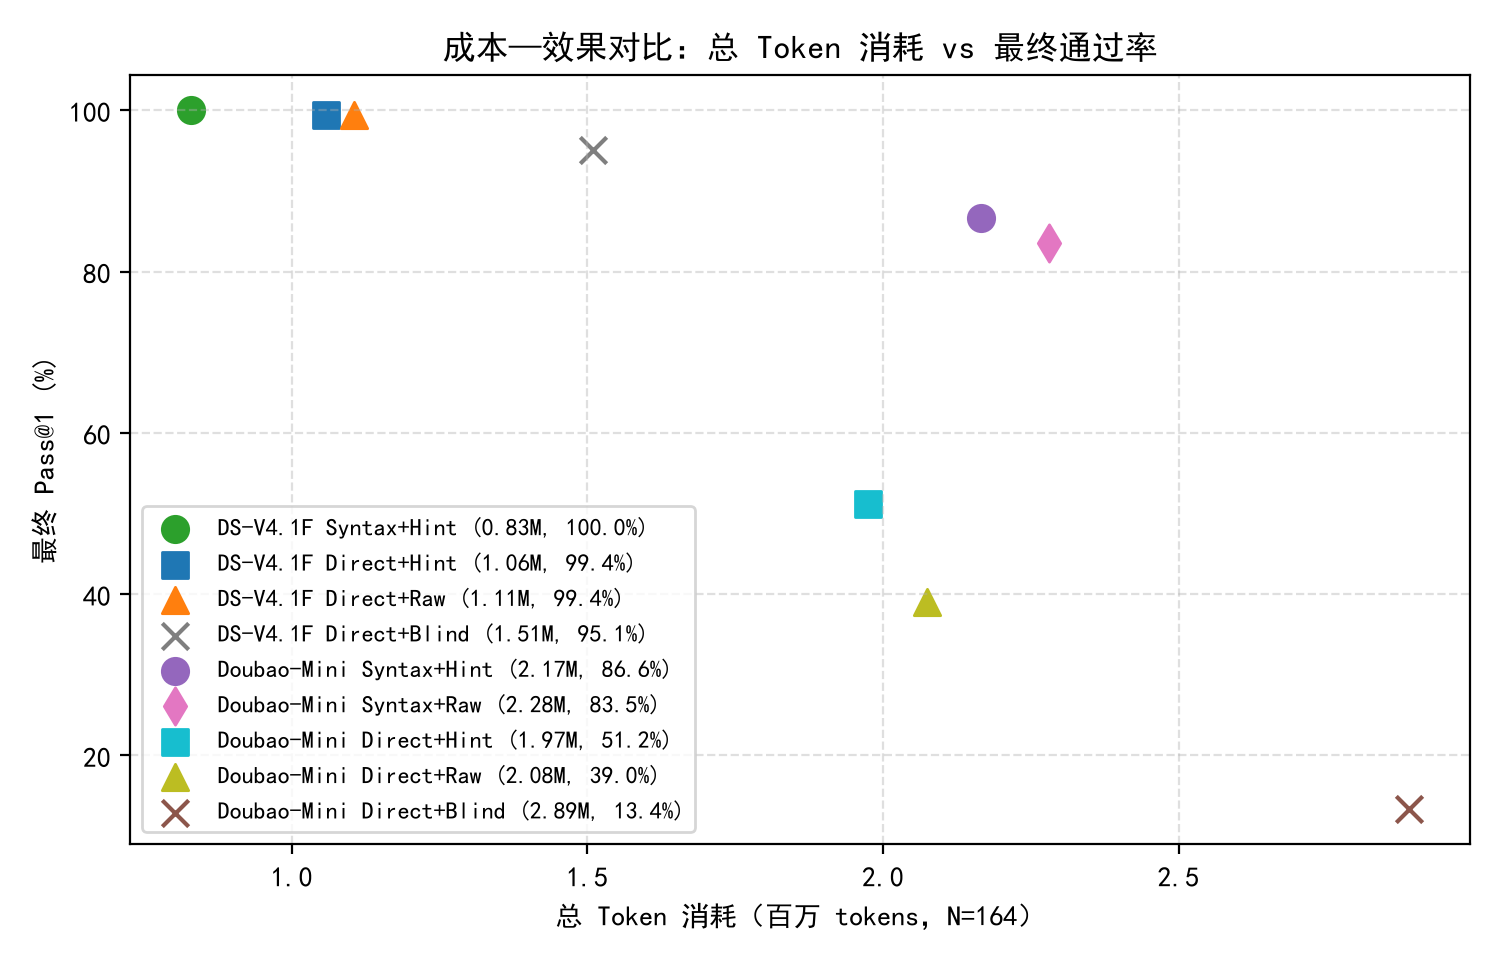
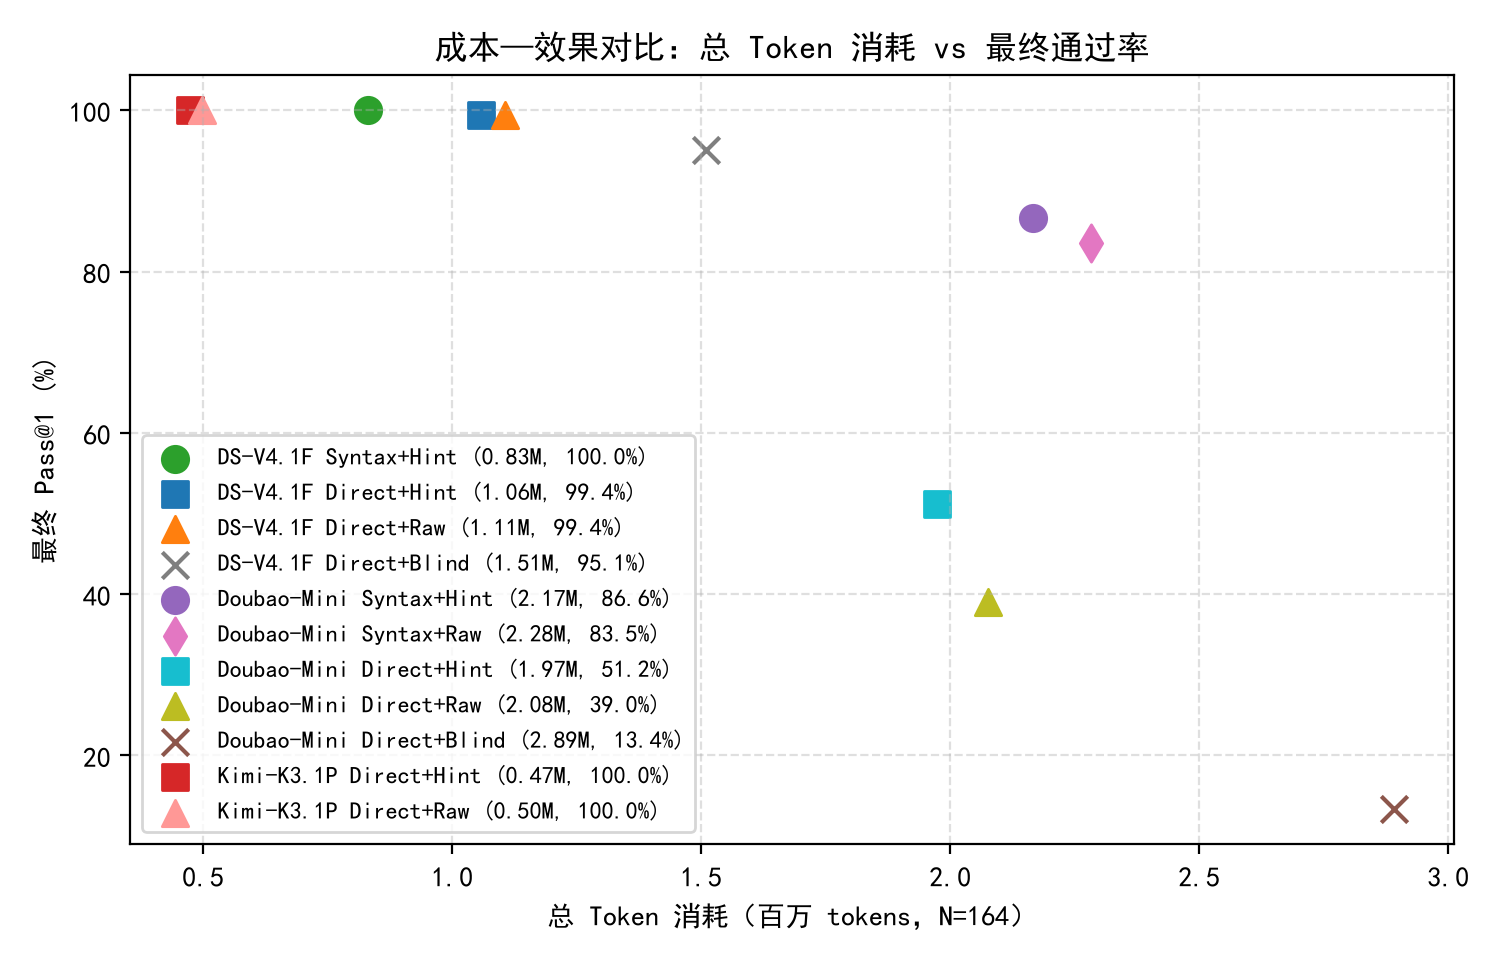
docs: finalize 18-experiment stats, add ClassEval figure and Kimi results
- plot_figures: add Kimi panel to fig1, Kimi points to fig2, new fig4 (ClassEval curves)
- report: 18 groups / 2392 runs, revised RQ2-RQ4 (hint vs raw not significant on ClassEval), softened Agent comparison and split-check wording, added threats (R0 variance, missing Kimi ClassEval)
- track 4 newly completed summary files

diff --git a/src/plot_figures.py b/src/plot_figures.py
@@ -25,23 +25,45 @@ plt.rcParams["axes.unicode_minus"] = False
 OUT_DIR = os.path.join(ROOT, "results", "figures")
 
 
-def plot_curves(summaries: dict[str, dict]):
-    fig, axes = plt.subplots(1, 2, figsize=(11.5, 4.6), sharey=True)
-    groups = [
-        ("DeepSeek-V4.1-Flash", [
-            ("ds_v41f_syntax_hint_r5", "Syntax + Hint", "-o", "#2ca02c"),
-            ("ds_v41f_direct_hint_r5", "Direct + Hint", "-s", "#1f77b4"),
-            ("ds_v41f_direct_raw_r5",  "Direct + Raw",  "--^", "#ff7f0e"),
-            ("ds_v41f_direct_blind_r5","Direct + Blind",":x", "#7f7f7f"),
-        ]),
-        ("Doubao-Seed-2.0-Mini (轻量模型)", [
-            ("doubao_mini_syntax_hint_r5",  "Syntax + Hint",  "-o", "#2ca02c"),
-            ("doubao_mini_syntax_raw_r5",   "Syntax + Raw",   "--d", "#9467bd"),
-            ("doubao_mini_direct_hint_r5",  "Direct + Hint",  "-s", "#1f77b4"),
-            ("doubao_mini_direct_raw_r5",   "Direct + Raw",   "--^", "#ff7f0e"),
-            ("doubao_mini_direct_blind_r5", "Direct + Blind", ":x", "#7f7f7f"),
-        ]),
-    ]
+HE_GROUPS = [
+    ("DeepSeek-V4.1-Flash", [
+        ("ds_v41f_syntax_hint_r5", "Syntax + Hint", "-o", "#2ca02c"),
+        ("ds_v41f_direct_hint_r5", "Direct + Hint", "-s", "#1f77b4"),
+        ("ds_v41f_direct_raw_r5",  "Direct + Raw",  "--^", "#ff7f0e"),
+        ("ds_v41f_direct_blind_r5","Direct + Blind",":x", "#7f7f7f"),
+    ]),
+    ("Doubao-Seed-2.0-Mini (轻量模型)", [
+        ("doubao_mini_syntax_hint_r5",  "Syntax + Hint",  "-o", "#2ca02c"),
+        ("doubao_mini_syntax_raw_r5",   "Syntax + Raw",   "--d", "#9467bd"),
+        ("doubao_mini_direct_hint_r5",  "Direct + Hint",  "-s", "#1f77b4"),
+        ("doubao_mini_direct_raw_r5",   "Direct + Raw",   "--^", "#ff7f0e"),
+        ("doubao_mini_direct_blind_r5", "Direct + Blind", ":x", "#7f7f7f"),
+    ]),
+    ("Kimi-K3.1-Pro", [
+        ("kimik31p_direct_hint_r5", "Direct + Hint", "-s", "#1f77b4"),
+        ("kimik31p_direct_raw_r5",  "Direct + Raw",  "--^", "#ff7f0e"),
+    ]),
+]
+
+CE_GROUPS = [
+    ("DeepSeek-V4.1-Flash", [
+        ("ds_v41f_ce_direct_hint_r5", "Direct + Hint", "-s", "#1f77b4"),
+        ("ds_v41f_ce_direct_raw_r5",  "Direct + Raw",  "--^", "#ff7f0e"),
+    ]),
+    ("Doubao-Seed-2.0-Mini (轻量模型)", [
+        ("doubao_mini_ce_syntax_hint_r5",  "Syntax + Hint",  "-o", "#2ca02c"),
+        ("doubao_mini_ce_syntax_raw_r5",   "Syntax + Raw",   "--d", "#9467bd"),
+        ("doubao_mini_ce_direct_hint_r5",  "Direct + Hint",  "-s", "#1f77b4"),
+        ("doubao_mini_ce_direct_raw_r5",   "Direct + Raw",   "--^", "#ff7f0e"),
+        ("doubao_mini_ce_direct_blind_r5", "Direct + Blind", ":x", "#7f7f7f"),
+    ]),
+]
+
+
+def plot_curves(summaries: dict[str, dict], groups=HE_GROUPS,
+                suptitle="不同反馈粒度下的多轮编译反馈修复曲线 (HumanEval-Cangjie, N=164)",
+                filename="fig1_rounds_curve.png", doubao_legend_loc="center right"):
+    fig, axes = plt.subplots(1, len(groups), figsize=(5.6 * len(groups), 4.6), sharey=True)
     xs = list(range(6))
     for ax, (title, items) in zip(axes, groups):
         for key, label, fmt, color in items:
@@ -54,11 +76,11 @@ def plot_curves(summaries: dict[str, dict]):
         ax.set_xticks(xs)
         ax.set_ylim(0, 105)
         ax.grid(True, linestyle="--", alpha=0.4)
-        ax.legend(loc="center right" if "Doubao" in title else "lower right", fontsize=9)
+        ax.legend(loc=doubao_legend_loc if "Doubao" in title else "lower right", fontsize=9)
     axes[0].set_ylabel("Pass@1 (%)")
-    fig.suptitle("不同反馈粒度下的多轮编译反馈修复曲线 (HumanEval-Cangjie, N=164)", fontsize=13)
+    fig.suptitle(suptitle, fontsize=13)
     fig.tight_layout()
-    fig.savefig(os.path.join(OUT_DIR, "fig1_rounds_curve.png"), dpi=200)
+    fig.savefig(os.path.join(OUT_DIR, filename), dpi=200)
     plt.close(fig)
 
 
@@ -74,6 +96,8 @@ def plot_pareto(summaries: dict[str, dict]):
         "doubao_mini_direct_hint_r5":  ("Doubao-Mini Direct+Hint",  "#17becf", "s"),
         "doubao_mini_direct_raw_r5":   ("Doubao-Mini Direct+Raw",   "#bcbd22", "^"),
         "doubao_mini_direct_blind_r5": ("Doubao-Mini Direct+Blind", "#8c564b", "x"),
+        "kimik31p_direct_hint_r5": ("Kimi-K3.1P Direct+Hint", "#d62728", "s"),
+        "kimik31p_direct_raw_r5":  ("Kimi-K3.1P Direct+Raw",  "#ff9896", "^"),
     }
     for key, (lbl, col, mk) in labels.items():
         if key not in summaries:
@@ -135,6 +159,9 @@ def main():
         summaries[s["name"]] = s
         data[s["name"]] = load_exp(p)
     plot_curves(summaries)
+    plot_curves(summaries, CE_GROUPS,
+                "不同反馈粒度下的多轮编译反馈修复曲线 (ClassEval-Cangjie, N=84)",
+                "fig4_rounds_curve_classeval.png", doubao_legend_loc="upper left")
     plot_pareto(summaries)
     plot_error_repair(data)
     print(f"Figures saved to {OUT_DIR}")

diff --git a/docs/实验汇总报告.md b/docs/实验汇总报告.md
@@ -3,7 +3,7 @@
 > **项目题目**：面向低资源编程语言仓颉的轻量级编译反馈修复方法研究  
 > **编译器版本**：Cangjie Compiler 1.0.5 (`cjc` cjnative，Windows x86_64)  
 > **基准数据集**：CangjieBench（HumanEval 164 题 + ClassEval 84 题，共 248 题）  
-> **完成时间**：2026-11-16
+> **完成时间**：2026-11-17
 
 ---
 
@@ -13,15 +13,18 @@
    - HumanEval（164 题）：本地 `cjc 1.0.5` **164 / 164 (100.0%)** 通过。
    - ClassEval（84 题）：本地 `cjc 1.0.5` **82 / 84 (97.6%)** 通过（`id=35` 超时、`id=48` 编译错误）。
 2. **论文数字复现**：
-   - 使用 CangjieBench 公开的 `DeepSeek-V3_HumanEval.jsonl`（Syntax-Constrained），本地评测得到 **Pass@1 = 40.85%、Compile Rate = 47.56%**，与论文报告的 **40.9% / 47.6%** 完全一致，证明本地无 Docker 评测工具与官方沙箱完全等价。
+   - 使用 CangjieBench 公开的 `DeepSeek-V3_HumanEval.jsonl`（Syntax-Constrained），本地评测得到 **Pass@1 = 40.85%、Compile Rate = 47.56%**，与论文报告的 **40.9% / 47.6%** 完全一致，证明本地无 Docker 评测工具与官方沙箱判定等价。
 3. **零成本报错挖掘**：
    - 扫描 CangjieBench 公开的 **6,647 个失败样本**，归纳出 **452 种 cjc 报错模板**（见 `results/error_stats.csv`）。据此构建了包含 16 条规则的「报错 → 仓颉正确写法」提示库（`src/repair_hints.py`），并实测修正了仓颉 1.0 API 变更（如 `ArrayList.append` 已更名为 `add`）。
 
 ---
 
-## 二、全部实验总表（11 组全量实验，共 1,644 题次，零异常）
+## 二、全部实验总表（18 组全量实验，共 2,392 题次，零异常）
 
-### 2.1 HumanEval-Cangjie（N = 164）
+- 覆盖 3 个模型家族：DeepSeek-V4.1-Flash、Doubao-Seed-2.0-Mini（双数据集）、Kimi-K3.1-Pro（仅 HumanEval，见第六节说明）。
+- 同一模型 + 同一初始提示下，不同反馈模式的第 0 轮是**各自独立生成**的，因此 R0 数值略有差异（见第六节）。
+
+### 2.1 HumanEval-Cangjie（N = 164，11 组）
 
 | 模型 | 初始提示 | 反馈模式 | R0 编译 | R0 | R1 | R2 | R3 | R4 | R5 | 均修轮数 | 总 Token |
 |---|---|---|---:|---:|---:|---:|---:|---:|---:|---:|---:|
@@ -34,63 +37,96 @@
 | **Doubao-Seed-2.0-Mini** | `direct` | `hint` | 10.37% | 9.76% | **25.00%** | **32.93%** | **39.02%** | **45.12%** | **51.22%** | **2.51** | **1,974,203** |
 | **Doubao-Seed-2.0-Mini** | `direct` | `raw` | 10.37% | 9.15% | 17.07% | 25.00% | 31.71% | 34.76% | 39.02% | 2.59 | 2,075,141 |
 | **Doubao-Seed-2.0-Mini** | `direct` | `blind` | 10.37% | 7.93% | 9.76% | 10.98% | 12.80% | 12.80% | 13.41% | 2.33 | 2,890,037 |
+| **Kimi-K3.1-Pro** | `direct` | `hint` | 81.71% | 81.10% | **98.78%** | **100.00%** | 100.00% | 100.00% | 100.00% | **1.06** | **474,286** |
+| **Kimi-K3.1-Pro** | `direct` | `raw` | 75.00% | 73.17% | 96.95% | 99.39% | 100.00% | 100.00% | 100.00% | 1.14 | 496,621 |
 
-### 2.2 ClassEval-Cangjie（N = 84，类级复杂任务）
+### 2.2 ClassEval-Cangjie（N = 84，类级复杂任务，7 组）
 
 | 模型 | 初始提示 | 反馈模式 | R0 编译 | R0 | R1 | R2 | R3 | R4 | R5 | 均修轮数 | 总 Token |
 |---|---|---|---:|---:|---:|---:|---:|---:|---:|---:|---:|
 | **DeepSeek-V4.1-Flash** | `direct` | `hint` | 47.62% | 44.05% | **78.57%** | **84.52%** | 89.29% | 89.29% | 91.67% | 1.52 | **1,835,040** |
 | **DeepSeek-V4.1-Flash** | `direct` | `raw` | 45.24% | 36.90% | 76.19% | 83.33% | **90.48%** | **92.86%** | **92.86%** | 1.51 | 2,269,932 |
+| **Doubao-Seed-2.0-Mini** | `syntax` | `hint` | 11.90% | 9.52% | 16.67% | 28.57% | 36.90% | 39.29% | **46.43%** | 2.74 | 3,490,272 |
+| **Doubao-Seed-2.0-Mini** | `syntax` | `raw` | 13.10% | 10.71% | **26.19%** | **30.95%** | 36.90% | **40.48%** | 44.05% | **2.25** | **3,288,276** |
+| **Doubao-Seed-2.0-Mini** | `direct` | `hint` | 3.57% | 3.57% | 7.14% | **11.90%** | **14.29%** | **17.86%** | **22.62%** | 3.06 | 3,034,597 |
+| **Doubao-Seed-2.0-Mini** | `direct` | `raw` | 3.57% | 3.57% | 7.14% | 10.71% | 13.10% | 14.29% | 17.86% | 2.83 | **2,867,209** |
+| **Doubao-Seed-2.0-Mini** | `direct` | `blind` | 2.38% | 2.38% | 3.57% | 3.57% | 3.57% | 3.57% | 3.57% | 1.00 | 3,351,561 |
 
-> 对照参考（CangjieBench ESEM 2026）：ClassEval T2C 一次生成最高（GPT-5 + Syntax）为 **23.8%**，Agent 最高（GPT-5 + Codex CLI）为 **32.1%**；HumanEval T2C Agent 最高（GPT-5 + Codex CLI）为 **84.8%**。
+> 对照参考（CangjieBench ESEM 2026 原文数字，**非同条件复现**）：ClassEval T2C 一次生成最高（GPT-5 + Syntax）为 **23.8%**，Agent 最高（GPT-5 + Codex CLI）为 **32.1%**；HumanEval T2C Agent 最高（GPT-5 + Codex CLI）为 **84.8%**。
 
 ---
 
 ## 三、研究问题（RQ）核心结论
 
 ### RQ1：多轮编译反馈修复能提升多少？几轮够用？
-- **强模型（DeepSeek-V4.1-Flash）**：仅需 **2–3 轮** 即接近或达到饱和。`direct+hint` 从 68.29% 跃升至第 3 轮 **99.39%**；`syntax+hint` 从 93.29% 在第 2 轮即达到 **100.00%**；即使在更难的 ClassEval 上，`direct+hint` 也在第 1 轮就从 44.05% 跳到 **78.57%（+34.52%）**，第 5 轮达到 **91.67%**。
-- **轻量模型（Doubao-Seed-2.0-Mini）**：提升幅度更大且持续到第 5 轮。`direct+hint` 从 9.76% 连续攀升至 **51.22%（翻了 5 倍以上）**；`syntax+hint` 从 44.51% 攀升至 **86.59%**。
+- **强模型（DeepSeek-V4.1-Flash、Kimi-K3.1-Pro）**：仅需 **1–3 轮** 即接近或达到饱和。DeepSeek `direct+hint` 从 68.29% 到第 3 轮 **99.39%**，`syntax+hint` 第 2 轮即 **100%**；Kimi `direct+hint` 从 81.10% 第 1 轮即达 **98.78%**、第 2 轮 **100%**。在更难的 ClassEval 上，DeepSeek `direct+hint` 第 1 轮从 44.05% 跳到 **78.57%（+34.52 个百分点）**，第 5 轮达到 **91.67%**。
+- **轻量模型（Doubao-Seed-2.0-Mini）**：提升幅度更大且持续到第 5 轮，尚未饱和。HumanEval 上 `direct+hint` 从 9.76% 攀升至 **51.22%**，`syntax+hint` 从 44.51% 攀升至 **86.59%**；ClassEval 上 `syntax+hint` 从 9.52% 攀升至 **46.43%**，`direct+hint` 从 3.57% 攀升至 **22.62%**。
 
 ### RQ2：哪种反馈最有效？（McNemar 精确检验）
-1. **编译报错不可或缺**：两组模型上 `hint` 与 `raw` 相对 `blind`（只告知失败）均**全轮次统计显著**（DeepSeek R1–R5 $p = 0.0005 \text{–} 0.0433$；Doubao R1–R5 $p < 0.0001 \text{–} 0.0118$）。
-2. **知识提示（`hint`）在轻量模型上优势显著**：在 Doubao-Seed-2.0-Mini 上，`hint` 比 `raw` 在 R5 高出 **+12.20 个百分点**（51.22% vs 39.02%，McNemar $p = 0.0017^*$），R1（$p = 0.0072^*$）和 R2（$p = 0.0294^*$）同样显著。
-3. **强模型上的价值体现在收敛速度与 token 成本**：在 DeepSeek-V4.1-Flash HumanEval 上，`hint` 与 `raw` 最终都达到 99.39%，但 `hint` 第 3 轮即饱和（`raw` 需到第 5 轮），失败题平均修复轮数更少（1.24 vs 1.41 轮）。
+1. **编译报错不可或缺（结论在所有可比组上一致）**：`hint` / `raw` 相对 `blind`（只告知失败）显著更好。
+   - DeepSeek HumanEval：R1–R5 全部显著（$p = 0.0005 \text{–} 0.0433$）。
+   - Doubao HumanEval：R1–R5 全部显著（$p < 0.0001 \text{–} 0.0118$）。
+   - Doubao ClassEval：`hint` vs `blind` 从 R2 起显著（R5 $p < 0.0001$），`raw` vs `blind` 从 R3 起显著（R5 $p = 0.0005$）；`blind` 5 轮下来仅从 2.38% 到 3.57%，几乎无效。
+2. **知识提示（`hint`）相对 `raw` 的增益依赖场景**：
+   - **显著**：Doubao HumanEval `direct` 起点，R5 **51.22% vs 39.02%（+12.20 个百分点，$p = 0.0017^*$）**，R1（$p = 0.0072^*$）、R2（$p = 0.0294^*$）同样显著。
+   - **有趋势但不显著**：Doubao HumanEval `syntax` 起点（R2 $p = 0.0501$，R5 86.59% vs 83.54%，$p = 0.33$）；Doubao ClassEval `direct` 起点（R5 22.62% vs 17.86%，$p = 0.48$）。
+   - **无差异**：Doubao ClassEval `syntax` 起点（R5 46.43% vs 44.05%，$p = 0.79$；R1 反而 `raw` 领先 26.19% vs 16.67%，$p = 0.12$）；DeepSeek 与 Kimi 的所有轮次（$p \ge 0.375$）。
+   - **解读**：`hint` 的价值集中在「模型对仓颉知识最匮乏」的场景（轻量模型 + 无语法规则）。当初始提示已经附带完整语法规则（`syntax`），或模型本身足够强，规则库提供的增量信息被稀释。ClassEval 上的类级任务失败更多来自逻辑与结构问题，16 条以语法/API 为主的规则覆盖有限。
+3. **强模型上的价值体现在收敛速度**：DeepSeek HumanEval 上 `hint` 第 3 轮饱和（`raw` 需第 5 轮），失败题平均修复轮数 1.24 vs 1.41；Kimi 上 `hint` 第 2 轮饱和（`raw` 需第 3 轮），1.06 vs 1.14 轮。但差异均不显著，只能作为趋势报告。
 
 ### RQ3：成本—效果权衡（附插图）
-- **加 `hint` 比加 `raw` 和 `blind` 更省钱**：
-  - DeepSeek-V4.1-Flash：`hint`（1.06M tokens） < `raw`（1.11M） < `blind`（1.51M），`blind` 因盲修浪费了 **43%** 的额外 token 且准确率最低。
-  - Doubao-Seed-2.0-Mini：`hint`（1.97M tokens, 51.22%） < `raw`（2.08M, 39.02%） < `blind`（2.89M, 13.41%）。
-- **轻量模型 + 语法约束 + 知识修复可追平强模型 Agent**：Doubao-Seed-2.0-Mini 在 `syntax+hint` 下，第 4 轮达到 **84.76%**、第 5 轮达到 **86.59%**，追平并超过 CangjieBench 中 GPT-5 + Codex Agent 的 **84.8%**，全集仅消耗 2.17M tokens。
+- **HumanEval 上 `hint` 最省 token**：
+  - DeepSeek-V4.1-Flash：`hint`（1.06M） < `raw`（1.11M） < `blind`（1.51M），`blind` 多耗 **43%** token 且准确率最低。
+  - Doubao-Seed-2.0-Mini：`hint`（1.97M, 51.22%） < `raw`（2.08M, 39.02%） < `blind`（2.89M, 13.41%）。
+  - Kimi-K3.1-Pro：`hint`（0.47M） < `raw`（0.50M），两者最终均 100%。
+- **ClassEval 上该优势不成立**：Doubao `hint` 比 `raw` 多消耗约 6%（`direct` 3.03M vs 2.87M；`syntax` 3.49M vs 3.29M），原因是 `hint` 救活了更多题、这些题需要更多轮次。DeepSeek ClassEval 上 `hint` 仍更省（1.84M vs 2.27M）。`blind` 在所有设置下都是 token 最多、效果最差。
+- **轻量模型 + 语法约束 + 多轮修复的效果接近强模型 Agent**：Doubao-Seed-2.0-Mini 在 HumanEval `syntax+hint` 下第 5 轮达到 **86.59%**，与 CangjieBench 原文报告的 GPT-5 + Codex Agent（**84.8%**）处于同一水平，全集消耗 2.17M tokens。⚠ 该对照数字引自原文，编译器版本与运行环境不同，论文中只能作为参考对照，不宜表述为"超过"。
+- ⚠ 不同厂商对推理 token 的计费口径不同，跨模型的 token 数不宜直接比较；论文中应按各家官方价格换算为货币成本。
 
 ### RQ4：哪类错误最依赖知识提示？
-以 Doubao-Seed-2.0-Mini 的第 0 轮失败样本为例：
-- **API / 标识符缺失（`api_or_undeclared`）**：`blind` 16% → `raw` 48% → `hint` **79%**（提升最大，+31% over raw）。因为模型不知道仓颉标准库 API 的真实命名（如 `ArrayList.add` vs `append`），光看编译报错无法猜出正确替代品。
+以 Doubao-Seed-2.0-Mini HumanEval `direct` 起点的第 0 轮失败样本为例（样本量最大、结论最清晰）：
+- **API / 标识符缺失（`api_or_undeclared`）**：`blind` 16% → `raw` 48% → `hint` **79%**（提升最大，+31 个百分点 over raw）。模型不知道仓颉标准库 API 的真实命名（如 `ArrayList.add` vs `append`），光看编译报错无法猜出正确替代品。
 - **类型 / 可变性错误（`type_or_mutability`）**：`blind` 0% → `raw` 55% → `hint` **67%**。
 - **外来语法（`foreign_syntax`）**：`blind` 3% → `raw` 27% → `hint` **38%**。
+
+ClassEval 上的补充观察（样本量较小，仅作参考）：
+- Doubao `direct`：`foreign_syntax` 是绝对主体（约 68/84 题），修复率 `blind` 1% → `raw` 10% → `hint` **19%**，趋势与 HumanEval 一致；`api_or_undeclared` 仅 8–9 题，`raw` 56% vs `hint` 38%，样本太少不足以下结论。
+- Doubao `syntax`：`api_or_undeclared` 修复率 `raw` 38%（6/16）→ `hint` **52%（14/27）**，方向与 HumanEval 一致。
 
 ---
 
 ## 四、生成的论文插图
 
 已保存至 `results/figures/`（脚本：`src/plot_figures.py`）：
-1. `fig1_rounds_curve.png`：双模型 × 四种策略的 0–5 轮 Pass@1 变化曲线
-2. `fig2_cost_pareto.png`：总 Token 消耗 vs 最终 Pass@1 帕累托对比图
-3. `fig3_error_repair.png`：Doubao-Mini 按错误类别的修复成功率对比柱状图
+1. `fig1_rounds_curve.png`：HumanEval 上 DeepSeek / Doubao / Kimi 三个模型各反馈策略的 0–5 轮 Pass@1 曲线
+2. `fig2_cost_pareto.png`：HumanEval 上总 Token 消耗 vs 最终 Pass@1 对比图（含 Kimi）
+3. `fig3_error_repair.png`：Doubao-Mini（HumanEval `direct`）按错误类别的修复成功率对比柱状图
+4. `fig4_rounds_curve_classeval.png`：ClassEval 上 DeepSeek / Doubao 各反馈策略的 0–5 轮 Pass@1 曲线（新增）
+
+> 投稿 SPE 时需将图中中文标题、坐标轴改为英文。
 
 ---
 
-## 五、5:5 题目划分防过拟合验证（Held-out Validation）
+## 五、5:5 题目划分一致性检查（Split Consistency Check）
 
-使用固定随机种子（`seed=42`，脚本 `src/split_eval.py`）将 HumanEval 164 题等分为开发集 Dev（82 题）与留出测试集 Test（82 题）：
+使用固定随机种子（`seed=42`，脚本 `src/split_eval.py`）将 HumanEval 164 题等分为 Dev（82 题）与 Test（82 题）：
 
-1. **规则泛化性**：仅看 Dev 82 题的公开失败样本，`repair_hints.py` 的全部 **16 条规则**命中次数均在 23–1,300 次之间（16/16 全部保留），说明规则捕捉的是仓颉语言共性特征而非题目过拟合。
-2. **留出集复现性**：在从未用于规则挖掘的 Held-out Test 82 题上，`Doubao-Seed-2.0-Mini` 在 `direct` 起点下从 R0 到 R5 表现为：`blind` 6.10%→9.76%、`raw` 6.10%→39.02%、`hint` **7.32%→46.34%**（+7.32% over raw）；在 `syntax` 起点下：`raw` 48.78%→87.80%、`hint` **48.78%→90.24%**。
+1. **规则覆盖面**：仅看 Dev 82 题的公开失败样本，`repair_hints.py` 的全部 **16 条规则**命中次数均在 23–1,300 次之间（16/16 全部保留），说明规则对应的是仓颉语言层面的共性错误，而非个别题目。
+2. **两半结果一致**：`Doubao-Seed-2.0-Mini` 在 Test 82 题上的 R0→R5：`direct` 起点 `blind` 6.10%→9.76%、`raw` 6.10%→39.02%、`hint` **7.32%→46.34%**；`syntax` 起点 `raw` 48.78%→87.80%、`hint` **48.78%→90.24%**，与 Dev 半区趋势一致。
+
+> ⚠ 说明：16 条规则是基于**全部 164 题**的公开失败样本挖掘得到的，Test 半区并未在规则构建时被隔离，因此本节只能说明「结论在两半题目上一致」，**不构成严格意义上的留出集验证**。若要做严格验证，需仅用 Dev 题目重新挖掘规则，再在 Test 上重跑 `hint` 组。
 
 ---
 
-## 六、写进论文前仍需补充的几件小事
+## 六、写进论文前仍需补充的几件事（Threats to Validity）
 
-1. **数据污染说明**：2026 年 10 月发布的新模型在预训练阶段可能接触过 2026 年 3 月开源的 CangjieBench，需在论文讨论部分（Threats to Validity）如实说明。
-2. **文献核实**：正式投稿前请对照 arXiv 原文核对 Java→仓颉翻译论文的准确标题、作者与发表信息。
-3. **目标期刊建议**：若追求零费用且含金量高（SCI/CCF-B），优先考虑 **SPE**（*Software: Practice and Experience*）或 **IST**（*Information and Software Technology*）的传统订阅模式（Subscription / 非 OA）；或 **J.UCS**（SCI 四区免费）及 **ACM SIGSOFT SEN**。
+1. **数据污染说明**：2026 年 10 月发布的新模型在预训练阶段可能接触过 2026 年 3 月开源的 CangjieBench，需在论文讨论部分如实说明。
+2. **单次运行与随机性**：所有实验均为单次运行。同一模型 + 同一初始提示的不同反馈组，第 0 轮是独立生成的，R0 存在明显波动（如 DeepSeek HumanEval `direct` 三组 R0 为 68.29% / 71.34% / 73.78%；Kimi `direct` 两组 R0 为 81.10% / 73.17%）。这说明模型输出并非完全确定（部分模型可能因不支持 `temperature=0` 被 `llm.py` 回退到 `temperature=1`，需逐个核实）。建议：
+   - 论文中报告各模型实际使用的 temperature；
+   - 对关键配置（如 Doubao HumanEval `direct` hint vs raw）补做重复运行，给出均值与置信区间；
+   - 或改用「共享同一个 R0、只比较修复阶段」的设计（`repair.py --init`）消除 R0 差异。
+3. **Kimi ClassEval 缺失**：Kimi-K3.1-Pro 为推理模型，在 ClassEval 复杂类上单次请求常超过 240 秒超时，叠加 5 次重试导致无法在合理时间内完成，已中止（半成品保存在 `results/try/`）。论文中 Kimi 仅作为 HumanEval 上的补充验证，需如实说明。
+4. **Agent 对照非同条件**：GPT-5 + Codex Agent 的数字引自原文，未在相同编译器版本与环境下复现。
+5. **判定口径**：沿用官方判定逻辑，stdout 中出现 `fail` 即判为测试失败，可能存在极少量误判，在实验设置中注明。
+6. **文献核实**：正式投稿前请对照 arXiv 原文核对 Java→仓颉翻译论文的准确标题、作者与发表信息。
+7. **目标期刊**：已确定 **SPE**（*Software: Practice and Experience*），走传统订阅模式（非 OA）。篇幅、模板与数据公开要求以 SPE 官网 Author Guidelines 为准。
